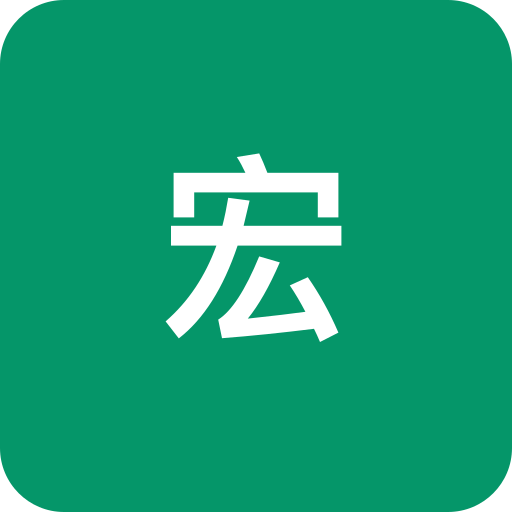
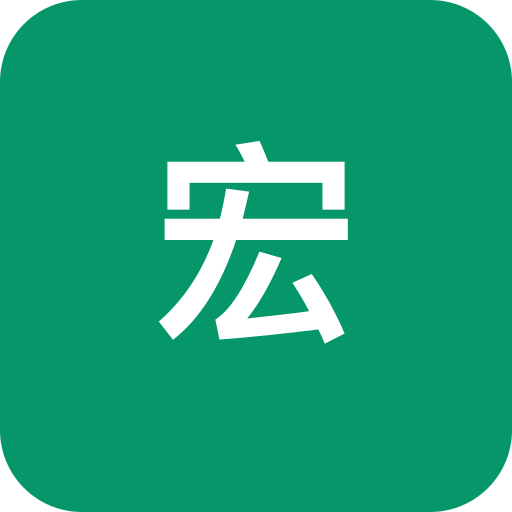
新增綠色 PWA PNG 圖示

diff --git a/poc-sheets-api/scripts/generate-icons.js b/poc-sheets-api/scripts/generate-icons.js
@@ -1,0 +1,34 @@
+import sharp from 'sharp';
+import { writeFileSync } from 'fs';
+import { join, dirname } from 'path';
+import { fileURLToPath } from 'url';
+
+const __dirname = dirname(fileURLToPath(import.meta.url));
+const publicDir = join(__dirname, '..', 'public');
+
+// 綠色背景 + 白色「宏」字的 SVG
+const createSvg = (size) => `
+<svg xmlns="http://www.w3.org/2000/svg" width="${size}" height="${size}" viewBox="0 0 ${size} ${size}">
+  <rect width="${size}" height="${size}" rx="${size * 0.16}" fill="#059669"/>
+  <text x="${size/2}" y="${size * 0.625}" font-family="Arial, sans-serif" font-size="${size * 0.42}" font-weight="bold" fill="white" text-anchor="middle">宏</text>
+</svg>
+`;
+
+async function generateIcons() {
+  const sizes = [192, 512];
+  
+  for (const size of sizes) {
+    const svg = createSvg(size);
+    const pngBuffer = await sharp(Buffer.from(svg))
+      .png()
+      .toBuffer();
+    
+    const outputPath = join(publicDir, `pwa-${size}x${size}.png`);
+    writeFileSync(outputPath, pngBuffer);
+    console.log(`✅ 已產生: pwa-${size}x${size}.png`);
+  }
+  
+  console.log('🎉 所有圖示已產生完成！');
+}
+
+generateIcons().catch(console.error);
